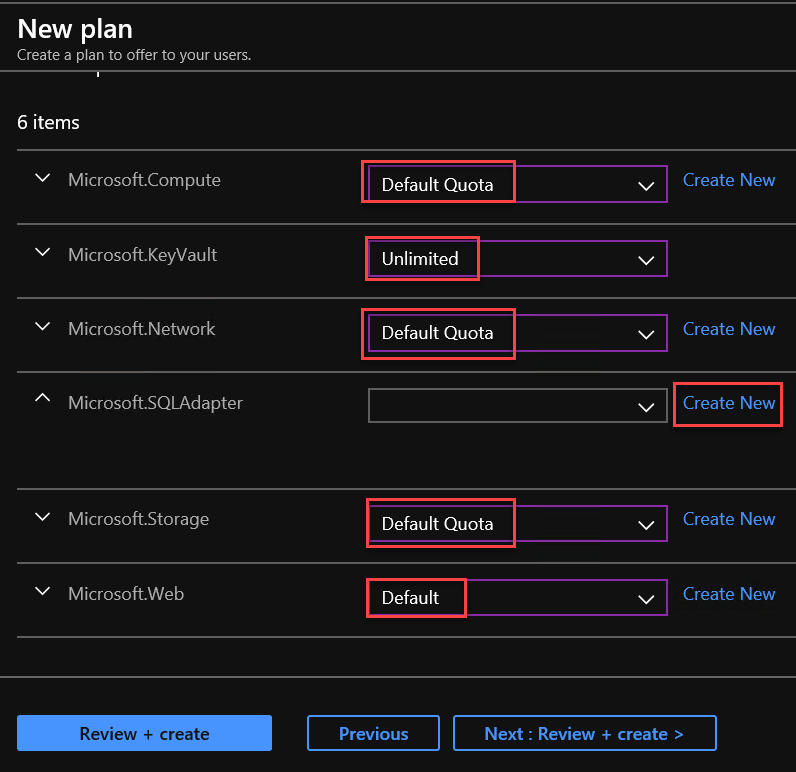
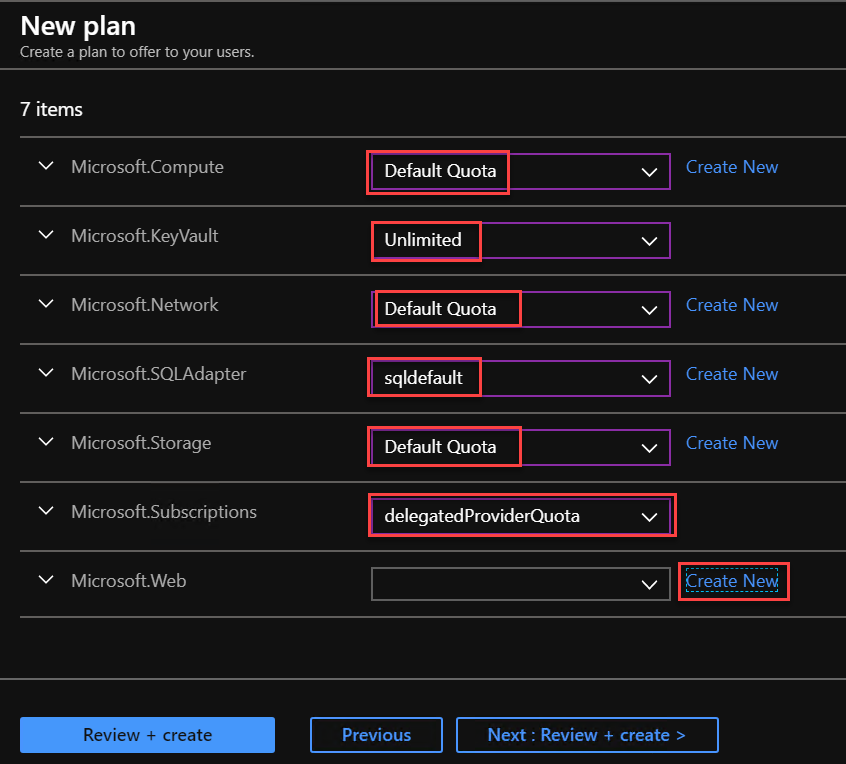
Updated Azure Stack

diff --git a/Hands-on lab/Azure-Stack-Migrate/HOL step-by-step - Azure Stack Migrate.md b/Hands-on lab/Azure-Stack-Migrate/HOL step-by-step - Azure Stack Migrate.md
@@ -121,13 +121,13 @@ Duration: 15-30 minutes
 
     ![Services are listed in the Services blade.](images/Hands-onlabstep-by-step-AzureStackimages/media/image73.png "Services")
 
-7. For Quotas, go through and choose the default quotas where available with the exception of the **Microsoft.SQLAdapter** entry. Next, select **Create New** next to the **Microsoft.SQLAdapter** entry.
+7. For Quotas, go through and choose the default quotas where available with the exception of the **Microsoft.Web** entry. Next, select **Create New** next to the **Microsoft.Web** entry.
 
     ![The Quotas blade displays with Microsoft SQL Adapter selected.](images/Hands-onlabstep-by-step-AzureStackimages/media/image75.png "Quotas blade")
 
 8. On the **Create Quota** blade, specify the following information and select **Create**:
 
-    - Quota Name: **SQLQuota**
+    - Quota Name: **WebQuota**
 
     - Maximum size of all Databases (GB): **50**
 
